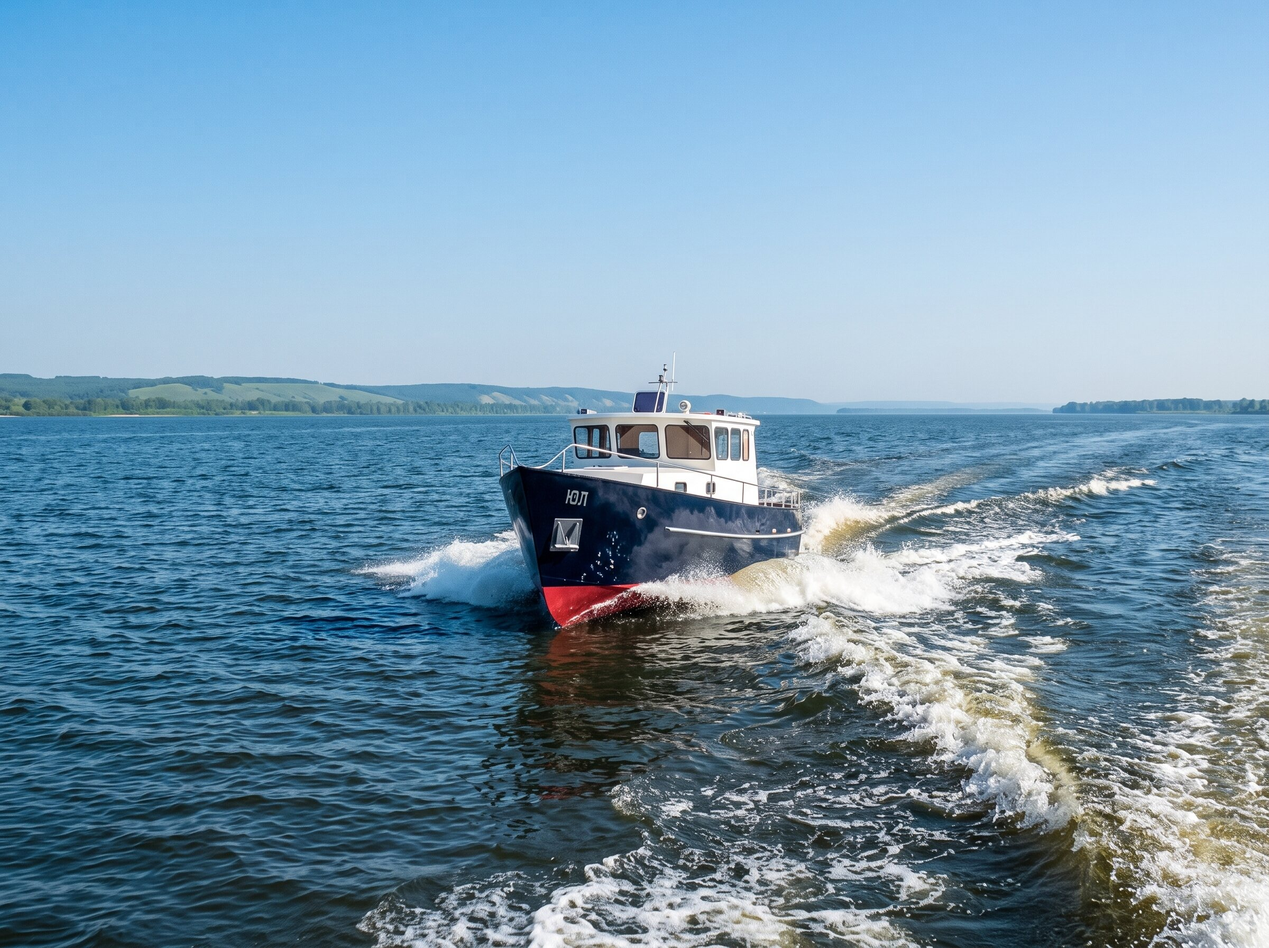
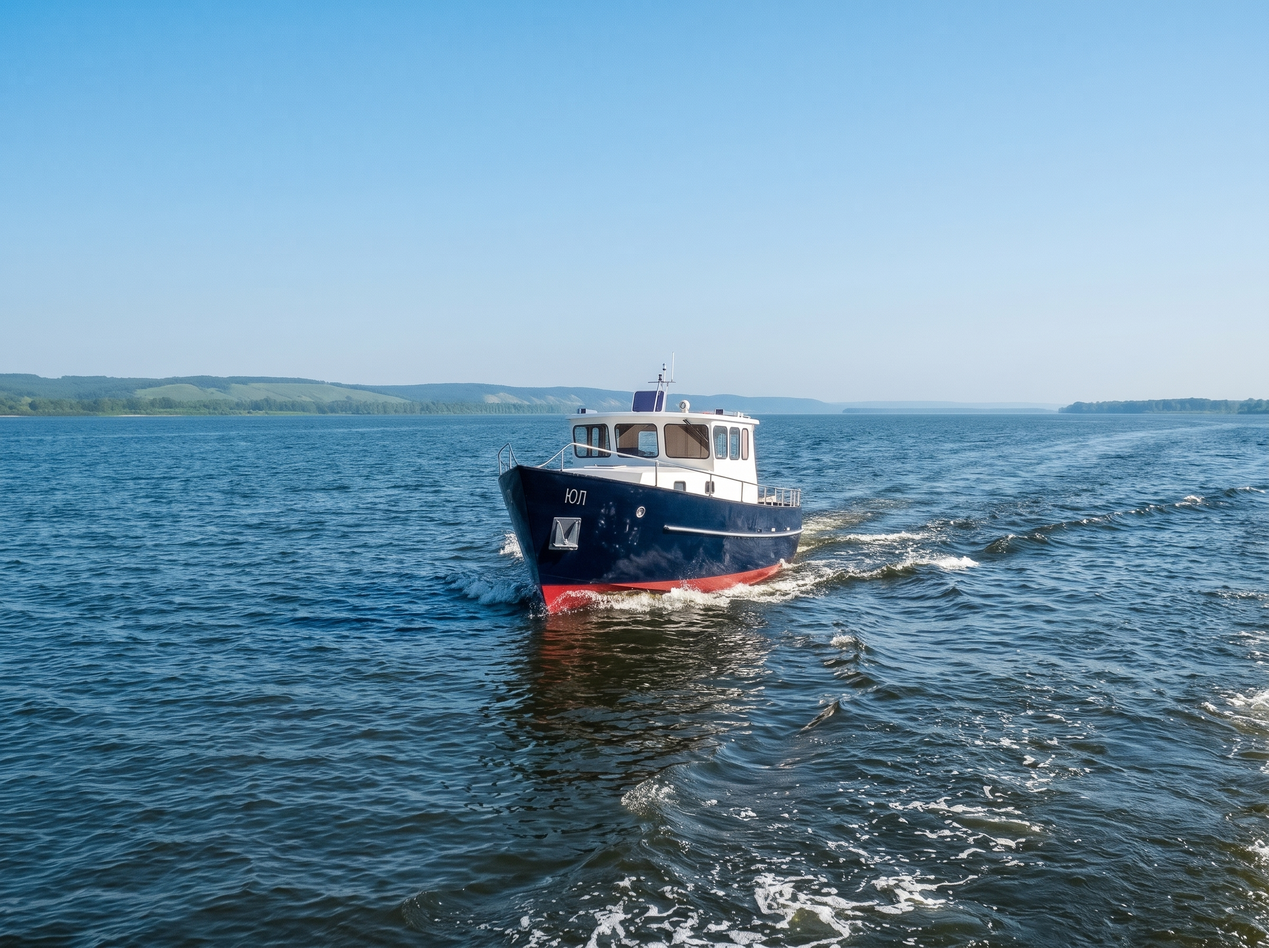
Юл: replace overview photo (yul-overview.jpg) everywhere

diff --git a/js/gallery.js b/js/gallery.js
@@ -128,7 +128,7 @@
       "rusich.jpg", "rusich-2.jpg", "rusich-overview.jpg", "rusich-story.jpg",
       "volnyi.jpg", "volnyi-2.jpg", "volnyi-overview.jpg", "volnyi-story.jpg",
       "yeti.jpg", "yeti-2.jpg", "yeti-overview.jpg", "yeti-story.jpg", "yeti-e1.jpg",
-      "yul.jpg", "yul-2.jpg", "yul-overview.jpg", "yul-story.jpg",
+      "yul.jpg", "yul-2.jpg", "yul-overview.jpg?v=2", "yul-story.jpg",
       "pilgrim.jpg", "pilgrim-2.jpg?v=3", "pilgrim-overview.jpg", "pilgrim-story.jpg",
       "laita.jpg", "laita-2.jpg", "laita-overview.jpg", "laita-story.jpg",
       "dundukovsky.jpg", "dundukovsky-2.jpg", "dundukovsky-3.jpg", "dundukovsky-4.jpg", "dundukovsky-5.jpg", "dundukovsky-6.jpg", "dundukovsky-7.jpg", "dundukovsky-8.jpg",

diff --git a/js/boats-data.js b/js/boats-data.js
@@ -737,7 +737,7 @@ const BOATS = [
       decks: []
     } },
   { id: "yul",       family: "korabli", name: "Юл",         status: "sold", year: "2008", img: "yul.jpg?v=2", noInteriors: true, noStory: true,
-    photos: { hero2: "yul-story.jpg", overview: "yul-overview.jpg", construction: "yul-2.jpg",
+    photos: { hero2: "yul-story.jpg", overview: "yul-overview.jpg?v=2", construction: "yul-2.jpg",
       plans: ["yul-plan-side.png?v=2","yul-plan-top.png?v=2"] },
     content: {
       eyebrow: "Прогулочный катер",

diff --git a/gallery.html b/gallery.html
@@ -169,7 +169,7 @@
     </div>
   </footer>
 
-  <script src="js/gallery.js?v=33"></script>
+  <script src="js/gallery.js?v=34"></script>
   <script src="js/contact-modal.js?v=3"></script>
 
 </body>
